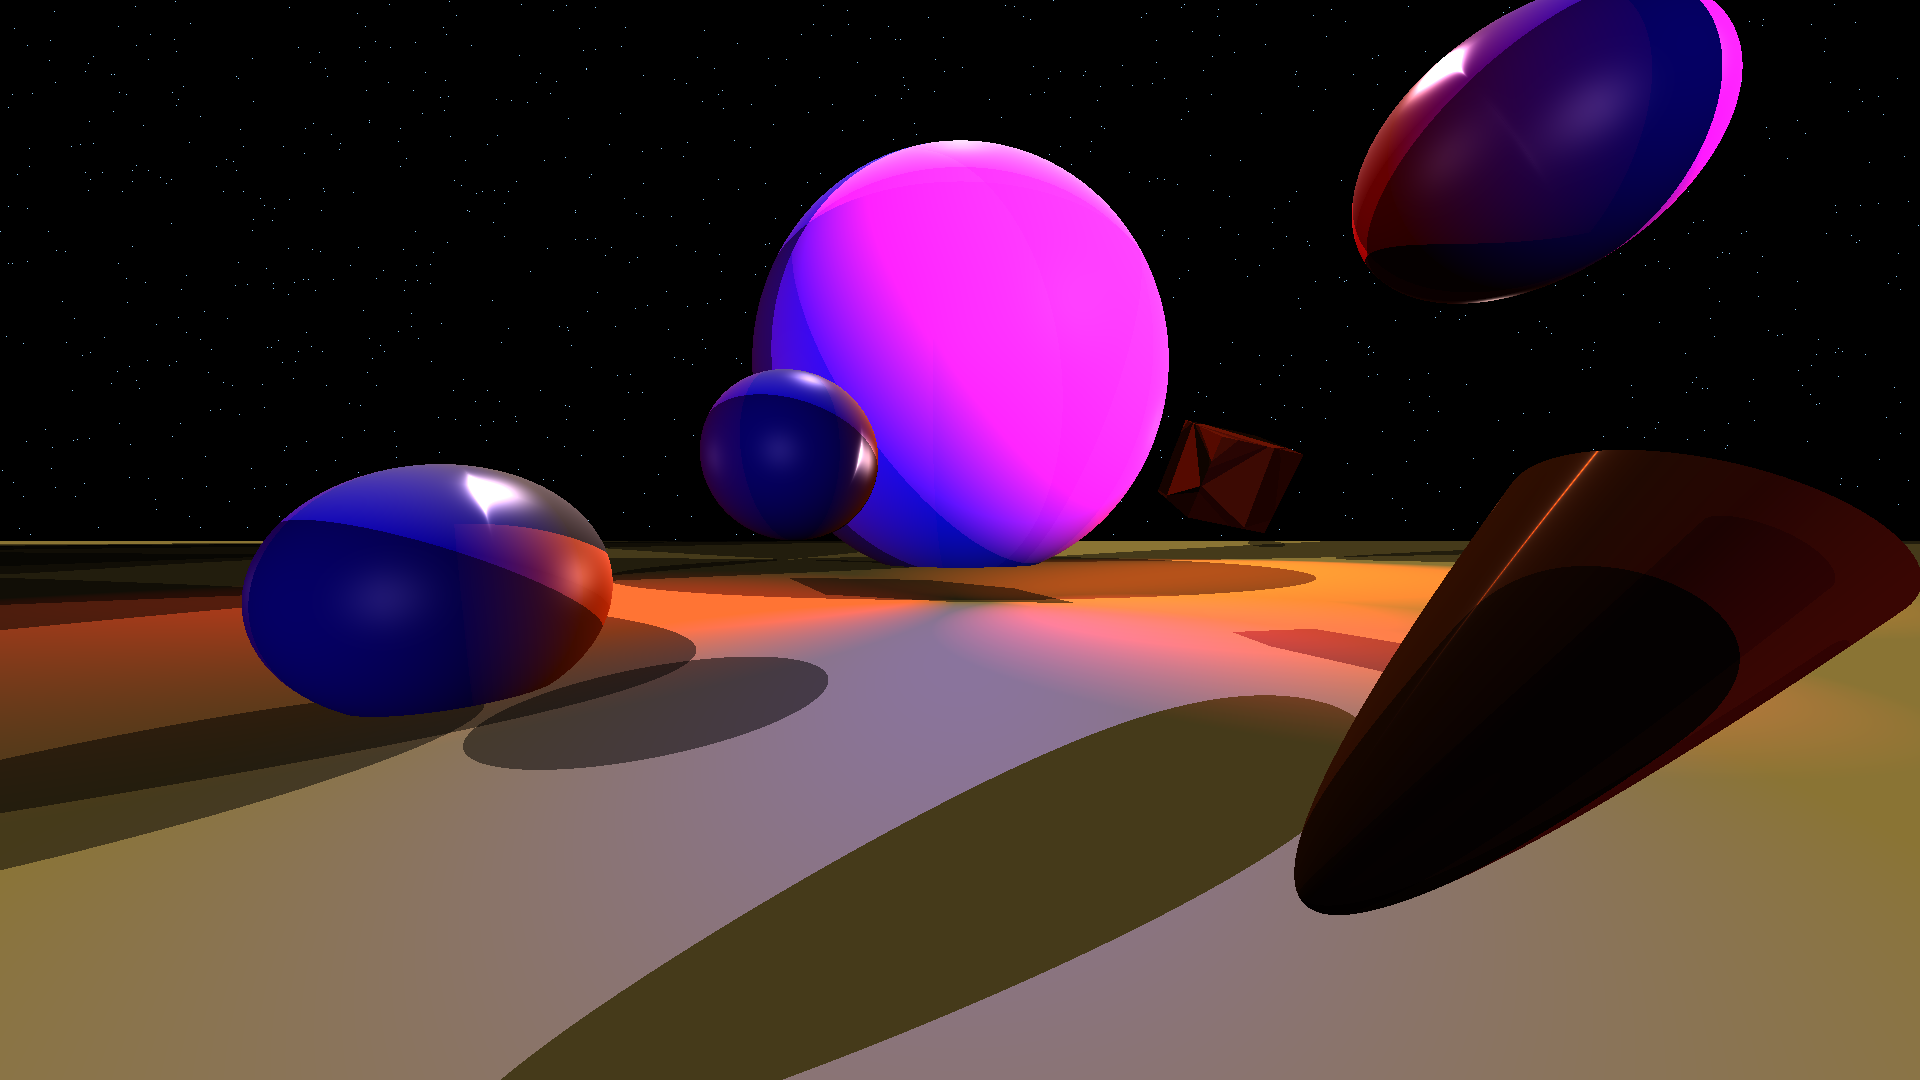
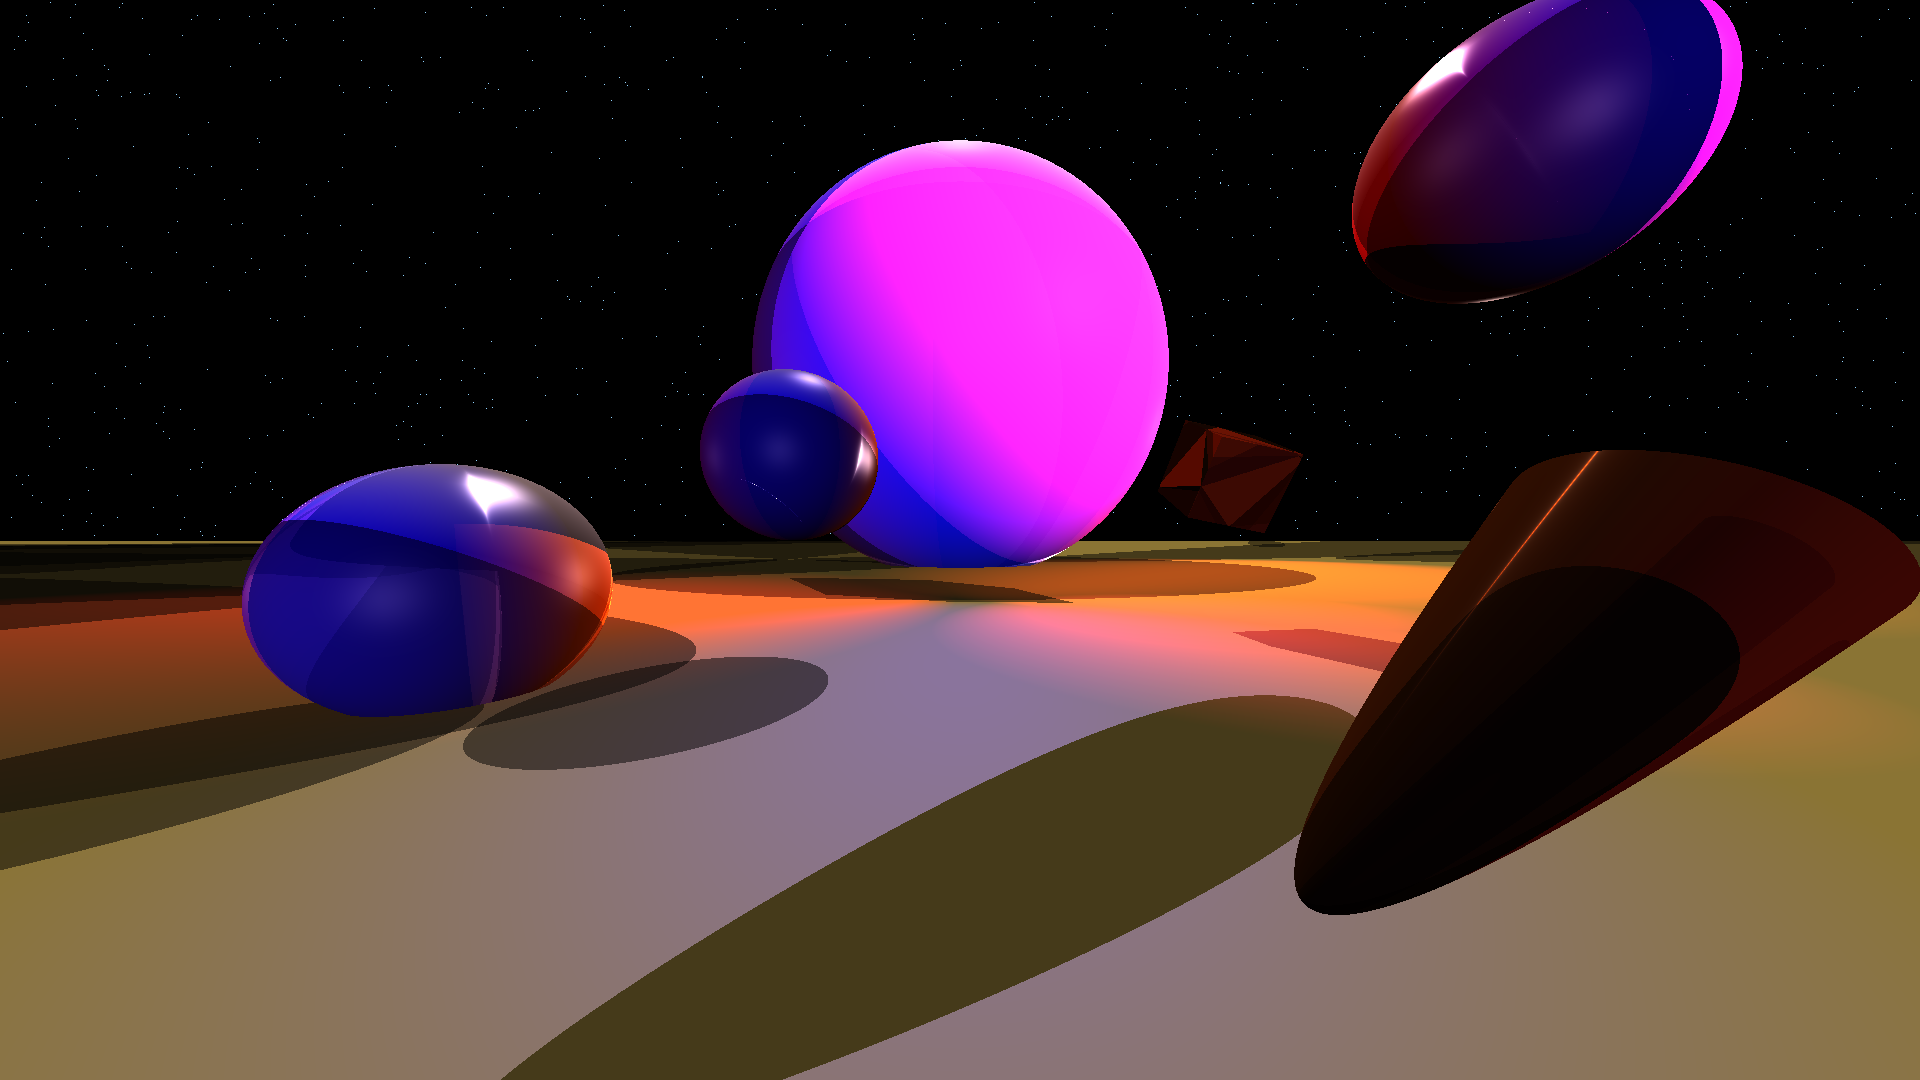
First parts of reflection

diff --git a/src/main/Renderer.java b/src/main/Renderer.java
@@ -1,8 +1,7 @@
 package main;
 
 import main.object.Object;
-import main.object.Plane;
-import main.object.Sphere;
+import main.object.Tuple;
 
 import javax.imageio.ImageIO;
 import javax.swing.*;
@@ -18,6 +17,7 @@ import java.util.Random;
 public class Renderer {
     private static final double LIGHTSOURCEFACTOR = 0.01;
     private static final double EPSILON = 0.1; // the difference that will be subtracted for shadowing
+    private static final int MAXRECURSELEVEL = 5; // TODO: move to SDL parameter
     private final JFrame frame;
     private final double focallength, screenWidth, screenHeight;
     private Scene scene;
@@ -69,41 +69,14 @@ public class Renderer {
                 //Vector dir = new Vector(-focallength, w * (y * c - 1), h * (z * r - 1), 0);
                 //Vector dir = new Vector(-focallength, (w - screenWidth) * (y * c / cmax), (h - screenHeight) * (z * r / rmax), 0);
 
-                // create ray
-                Ray notNormalizedRay = new Ray(scene.getCamera().location, dir);
                 // create normalized ray
                 Vector normalizedDir = new Vector(Utility.normalize(dir.getCoords()));
                 Ray normalizedRay = new Ray(scene.getCamera().location, normalizedDir);
 
-                // for every object, cast the ray and find the object nearest to us, that is the object where the collision time (t1) is lowest
-                double minIntersectionTime = Integer.MAX_VALUE;
-                Object closestObject = null; // object that was hit
-                Intersection intersectionHit = null; // the closest intersection and which we will be using later on
+                Tuple<Object, Intersection> objectIntersection = getHit(normalizedRay);
 
-                for (Object currentObject : scene.getObjects()) {
-                    Intersection currentIntersection;
-
-                    currentIntersection = currentObject.getFirstHitPoint(normalizedRay);
-
-                    // we know that if only one hit is present this hit has been set at exit and the time at T2. (btw, if only one hit -> t1 has been set to -1)
-                    // if, as normally, two hits are present (one enter and one exit) we know that T1 corresponds to the enter time and t2 to the exit time.
-                    // there will always be a T2.
-                    // currentIntersection times always have to be >= 0.
-                    if (currentIntersection != null) {
-                        if ((currentIntersection.getEnter() == null && currentIntersection.getT2() >= 0 && currentIntersection.getT2() < minIntersectionTime) || (currentIntersection.getEnter() != null && currentIntersection.getT1() >= 0 && currentIntersection.getT1() < minIntersectionTime)) {
-                            // the current intersection is in front of the previous hit, which means we have to deal with this hit in further code
-                            intersectionHit = currentIntersection;
-
-                            // for priorities with objects that are closer by and should be painted instead of objects behind it
-                            if (currentIntersection.getEnter() == null) // set min as exit time (=T2) (since only an exit has been registered)
-                                minIntersectionTime = currentIntersection.getT2();
-                            else
-                                minIntersectionTime = currentIntersection.getT1();
-
-                            closestObject = currentObject;
-                        }
-                    }
-                }
+                Object closestObject = objectIntersection.getObject();
+                Intersection intersectionHit = objectIntersection.getIntersection();
 
                 if (closestObject != null) {
                     // p 641
@@ -111,7 +84,8 @@ public class Renderer {
                     // Color: ambient, diffuse, specular
                     double[] rgb = new double[3];
 
-                    rgb = getShading(normalizedRay, closestObject, intersectionHit, rgb, notNormalizedRay);
+                    int recurseLevel = 0;
+                    getShading(normalizedRay, closestObject, intersectionHit, rgb, recurseLevel);
 
                     // rgb is now a value between 0 and 1
                     rgb = Arrays.stream(rgb).map(v -> v * 255).toArray();
@@ -141,7 +115,41 @@ public class Renderer {
         System.out.println(endtime - starttime);
     }
 
-    private double[] getShading(Ray ray, Object currentObject, Intersection intersection, double[] rgb, Ray notNormalizedRay) {
+    private Tuple<Object, Intersection> getHit(Ray normalizedRay) {
+        // for every object, cast the ray and find the object nearest to us, that is the object where the collision time (t1) is lowest
+        double minIntersectionTime = Integer.MAX_VALUE;
+        Object closestObject = null; // object that was hit
+        Intersection intersectionHit = null; // the closest intersection and which we will be using later on
+
+        for (Object currentObject : scene.getObjects()) {
+            Intersection currentIntersection;
+
+            currentIntersection = currentObject.getFirstHitPoint(normalizedRay);
+
+            // we know that if only one hit is present this hit has been set at exit and the time at T2. (btw, if only one hit -> t1 has been set to -1)
+            // if, as normally, two hits are present (one enter and one exit) we know that T1 corresponds to the enter time and t2 to the exit time.
+            // there will always be a T2.
+            // currentIntersection times always have to be >= 0.
+            if (currentIntersection != null) {
+                if ((currentIntersection.getEnter() == null && currentIntersection.getT2() >= 0 && currentIntersection.getT2() < minIntersectionTime) || (currentIntersection.getEnter() != null && currentIntersection.getT1() >= 0 && currentIntersection.getT1() < minIntersectionTime)) {
+                    // the current intersection is in front of the previous hit, which means we have to deal with this hit in further code
+                    intersectionHit = currentIntersection;
+
+                    // for priorities with objects that are closer by and should be painted instead of objects behind it
+                    if (currentIntersection.getEnter() == null) // set min as exit time (=T2) (since only an exit has been registered)
+                        minIntersectionTime = currentIntersection.getT2();
+                    else
+                        minIntersectionTime = currentIntersection.getT1();
+
+                    closestObject = currentObject;
+                }
+            }
+        }
+
+        return new Tuple<>(closestObject, intersectionHit);
+    }
+
+    private double[] getShading(Ray ray, Object currentObject, Intersection intersection, double[] rgb, int recurseLevel) {
         double[] ambient = currentObject.getMaterial().getAmbient();
         double[] diffuse = currentObject.getMaterial().getDiffuse();
         double[] specular = currentObject.getMaterial().getSpecular();
@@ -178,9 +186,9 @@ public class Renderer {
             hitpoint = intersection.getExit();
         else
             hitpoint = intersection.getEnter();
-
         hitpoint = new Vector(Utility.multiplyMatrices(hitpoint.getCoords(), currentObject.getTransformation().getTransformation()));
 
+        // shadows
         Vector start = Utility.subtract(hitpoint, Utility.multiplyElementWise(EPSILON, ray.getDir()));
 
         // for each lightsource
@@ -195,7 +203,8 @@ public class Renderer {
                 continue;
             }
 
-            // now onto diffuse and specular
+
+            // continue onto diffuse and specular
 
             double dw = 1; // width lightbeam coming from source
 
@@ -216,7 +225,6 @@ public class Renderer {
                 /*
                   DIFFUSE
                 */
-
                 double lambert = Math.max(0, mDots / (Utility.norm(s) * Utility.norm(normalVector)));
                 for (int i = 0; i < 3; i++) {
                     rgb[i] += specular[i] * dw * currentObject.getMaterial().getkDistribution()[1] * fresnelCoefficient0RGB[i] * lambert * (lightsource.getValue()[i] * LIGHTSOURCEFACTOR);
@@ -225,7 +233,6 @@ public class Renderer {
                 /*
                 SPECULAR
                  */
-
                 // angle between h and m (normal vector)
                 // h: halfway vector (between incoming light and ray)
                 double[] h = Utility.normalize(Utility.sum(Utility.normalize(v), s));
@@ -265,6 +272,45 @@ public class Renderer {
                     for (int i = 0; i < 3; i++) {
                         rgb[i] += specular[i] * currentObject.getMaterial().getkDistribution()[2] * dw * phongSpecularRGB[i];
                     }
+                }
+
+                /*
+                    REFLECTION
+                 */
+
+                if (recurseLevel != MAXRECURSELEVEL) {
+                    if (currentObject.getMaterial().getShininess() >= 0.6) {
+                        // spawn ray from hitpoint and call getShade()
+                        double[] r = new double[4];
+                        Vector normalVectorVector = new Vector(normalVector);
+                        for (int i = 0; i < r.length; i++) {
+                            r[i] = ray.getDir().getCoords()[i] - 2 * (Utility.dot(ray.getDir(), normalVectorVector)) * normalVector[i];
+                        }
+
+                        Vector newDir = new Vector(r);
+                        Ray newRay = new Ray(start, newDir);
+
+                        Tuple<Object, Intersection> objectIntersection = getHit(newRay);
+
+                        Object reflectedObjectHit = objectIntersection.getObject();
+                        Intersection reflectedIntersectionHit = objectIntersection.getIntersection();
+
+                        if (reflectedObjectHit != null) {
+                            recurseLevel++;
+                            double[] reflectedColors = getShading(newRay, reflectedObjectHit, reflectedIntersectionHit, rgb.clone(), recurseLevel);
+
+                            for (int i = 0; i < 3; i++) {
+                                if (!Double.isNaN(reflectedColors[i]))
+                                    rgb[i] += currentObject.getMaterial().getShininess() * reflectedColors[i];
+                            }
+                        }
+                    }
+
+                    /* TODO
+                    if (currentObject.getMaterial().getTransparancy() >= 0.6) {
+
+
+                    } */
                 }
             }
         }

diff --git a/src/main/Main.java b/src/main/Main.java
@@ -59,10 +59,10 @@ public class Main {
         Transformation scaleSphereChrome = new Scale(500);
 
         // MATERIALS
-        Material ruby = new Material(new double[]{0.1745 * 15, 0.01175 * 15, 0.01175 * 15}, new double[]{0.61424 * 15, 0.04136 * 15, 0.04136 * 15}, new double[]{0.727811 * 15, 0.626959 * 15, 0.626959 * 15}, new double[]{1.762 * 1.2, 1.770 * 1.2, 1.778 * 1.2}, 0.2, new double[]{1, 0.5, 0.5});
-        Material copper = new Material(new double[]{0.19125, 0.0735, 0.0225}, new double[]{0.7038, 0.27048, 0.0828}, new double[]{0.256777, 0.137622, 0.086014}, new double[]{fresnelToRefr(0.755), fresnelToRefr(0.49), fresnelToRefr(0.095)}, 0.2, new double[]{1, 0.5, 0.5});
-        Material chrome = new Material(new double[]{0.25, 0.25, 0.25}, new double[]{0.4, 0.4, 0.4}, new double[]{3.1812, 3.1812, 3.1812}, new double[]{3.1812 * 2, 3.1812 * 2, 3.1812 * 2}, 0.2, new double[]{1, 0.5, 0.5});
-        Material gold = new Material(new double[]{0.54725, 0.4995, 0.3745}, new double[]{0.95164, 0.80648, 0.52648}, new double[]{0.928281, 0.855802, 0.666065}, new double[]{fresnelToRefr(0.989) * 1.5, fresnelToRefr(0.876) * 1.5, fresnelToRefr(0.399) * 1.5}, 0.2, new double[]{1, 0.5, 0.5});
+        Material ruby = new Material(new double[]{0.1745 * 15, 0.01175 * 15, 0.01175 * 15}, new double[]{0.61424 * 15, 0.04136 * 15, 0.04136 * 15}, new double[]{0.727811 * 15, 0.626959 * 15, 0.626959 * 15}, new double[]{1.762 * 1.2, 1.770 * 1.2, 1.778 * 1.2}, 0.2, new double[]{1, 0.5, 0.5}, 0.6);
+        Material copper = new Material(new double[]{0.19125, 0.0735, 0.0225}, new double[]{0.7038, 0.27048, 0.0828}, new double[]{0.256777, 0.137622, 0.086014}, new double[]{fresnelToRefr(0.755), fresnelToRefr(0.49), fresnelToRefr(0.095)}, 0.2, new double[]{1, 0.5, 0.5}, 0.1);
+        Material chrome = new Material(new double[]{0.25, 0.25, 0.25}, new double[]{0.4, 0.4, 0.4}, new double[]{3.1812, 3.1812, 3.1812}, new double[]{3.1812 * 2, 3.1812 * 2, 3.1812 * 2}, 0.2, new double[]{1, 0.5, 0.5}, 0.6);
+        Material gold = new Material(new double[]{0.54725, 0.4995, 0.3745}, new double[]{0.95164, 0.80648, 0.52648}, new double[]{0.928281, 0.855802, 0.666065}, new double[]{fresnelToRefr(0.989) * 1.5, fresnelToRefr(0.876) * 1.5, fresnelToRefr(0.399) * 1.5}, 0.2, new double[]{1, 0.5, 0.5}, 0.4);
 
         // OBJECTS
         Object plane = new Plane(gold);

diff --git a/src/test/RayTest.java b/src/test/RayTest.java
@@ -16,7 +16,7 @@ import java.util.List;
 public class RayTest {
     @Test
     public void testShadow() {
-        Material emerald = new Material(new double[]{0.0215, 0.1745, 0.0215}, new double[]{0.07568, 0.61424, 0.07568}, new double[]{0.633, 0.727811, 0.633}, new double[]{2.417, 2.417, 2.417}, 0.2, new double[]{0.2, 0.49, 0.49});
+        Material emerald = new Material(new double[]{0.0215, 0.1745, 0.0215}, new double[]{0.07568, 0.61424, 0.07568}, new double[]{0.633, 0.727811, 0.633}, new double[]{2.417, 2.417, 2.417}, 0.2, new double[]{0.2, 0.49, 0.49}, 0.6);
 
         Object plane = new Plane(emerald);
         plane.addTransformation(new Translation(0, 0, 100));
@@ -30,7 +30,7 @@ public class RayTest {
 
     @Test
     public void testSphere() {
-        Material emerald = new Material(new double[]{0.0215, 0.1745, 0.0215}, new double[]{0.07568, 0.61424, 0.07568}, new double[]{0.633, 0.727811, 0.633}, new double[]{2.417, 2.417, 2.417}, 0.2, new double[]{0.2, 0.49, 0.49});
+        Material emerald = new Material(new double[]{0.0215, 0.1745, 0.0215}, new double[]{0.07568, 0.61424, 0.07568}, new double[]{0.633, 0.727811, 0.633}, new double[]{2.417, 2.417, 2.417}, 0.2, new double[]{0.2, 0.49, 0.49}, 0.6);
 
         Object sphere = new Sphere(emerald);
 
@@ -74,7 +74,7 @@ public class RayTest {
 
     @Test
     public void testPlane() {
-        Material emerald = new Material(new double[]{0.0215, 0.1745, 0.0215}, new double[]{0.07568, 0.61424, 0.07568}, new double[]{0.633, 0.727811, 0.633}, new double[]{2.417, 2.417, 2.417}, 0.2, new double[]{0.2, 0.49, 0.49});
+        Material emerald = new Material(new double[]{0.0215, 0.1745, 0.0215}, new double[]{0.07568, 0.61424, 0.07568}, new double[]{0.633, 0.727811, 0.633}, new double[]{2.417, 2.417, 2.417}, 0.2, new double[]{0.2, 0.49, 0.49}, 0.6);
 
         Object plane = new Plane(emerald);
 

diff --git a/src/main/transformation/Rotation.java b/src/main/transformation/Rotation.java
@@ -4,7 +4,6 @@ import main.Utility;
 import main.Vector;
 
 public class Rotation extends Transformation {
-    // TODO: add inverse transformation
     public Rotation() {
         super();
     }
@@ -18,7 +17,7 @@ public class Rotation extends Transformation {
                                 {0, Math.sin(angle), Math.cos(angle), 0},
                                 {0, 0, 0, 1}};
 
-        setTransformation(Utility.multiplyMatrices(getTransformation(), rotation));
+        setTransformation(Utility.multiplyMatrices(rotation, getTransformation()));
 
         // inverse
         double[][] inverseRotation = { {1, 0, 0, 0},
@@ -40,7 +39,7 @@ public class Rotation extends Transformation {
                                 {-Math.sin(angle), 0, Math.cos(angle), 0},
                                 {0, 0, 0, 1}};
 
-        setTransformation(Utility.multiplyMatrices(getTransformation(), rotation));
+        setTransformation(Utility.multiplyMatrices(rotation, getTransformation()));
 
         // inverse
         double[][] inverseRotation = {  {Math.cos(angle), 0, -Math.sin(angle), 0},
@@ -63,7 +62,7 @@ public class Rotation extends Transformation {
                                 {0, 0, 1, 0},
                                 {0, 0, 0, 1}};
 
-        setTransformation(Utility.multiplyMatrices(getTransformation(), rotation));
+        setTransformation(Utility.multiplyMatrices(rotation, getTransformation()));
 
         // inverse
         double[][] inverseRotation = {  {Math.cos(angle), 0, Math.sin(angle), 0},

diff --git a/src/main/Material.java b/src/main/Material.java
@@ -10,14 +10,16 @@ public class Material {
     private final double[] refractionIndex;
     private final double[] kDistribution;
     private double roughness;
+    private double shininess;
 
-    public Material(double[] ambient, double[] diffuse, double[] specular, double[] refractionIndex, double roughness, double[] distributionK) {
+    public Material(double[] ambient, double[] diffuse, double[] specular, double[] refractionIndex, double roughness, double[] distributionK, double shininess) {
         this.ambient = Arrays.stream(ambient).map(v -> v *= 1).toArray();
         this.diffuse = Arrays.stream(diffuse).map(v -> v *= 1).toArray();
         this.specular = Arrays.stream(specular).map(v -> v *= 1).toArray();
         this.refractionIndex = refractionIndex;
         this.kDistribution = distributionK;
         this.roughness = roughness;
+        this.shininess = shininess;
     }
 
     public double[] getAmbient() {
@@ -46,5 +48,9 @@ public class Material {
 
     public double[] getkDistribution() {
         return kDistribution;
+    }
+
+    public double getShininess() {
+        return shininess;
     }
 }

diff --git a/src/main/object/Tuple.java b/src/main/object/Tuple.java
@@ -1,0 +1,19 @@
+package main.object;
+
+public class Tuple<Object, Intersection> {
+    private main.object.Object object;
+    private Intersection intersection;
+
+    public Tuple(main.object.Object object, Intersection intersection) {
+        this.object = object;
+        this.intersection = intersection;
+    }
+
+    public main.object.Object getObject() {
+        return object;
+    }
+
+    public Intersection getIntersection() {
+        return intersection;
+    }
+}

diff --git a/src/main/object/Plane.java b/src/main/object/Plane.java
@@ -10,7 +10,6 @@ public class Plane extends Object {
         super(material);
     }
 
-    // TODO: cube, cilinder: originalRay -> ray & rotation: inverse and originalRay -> ray
     @Override
     public Intersection getFirstHitPoint(Ray originalRay) {
         Ray ray;
